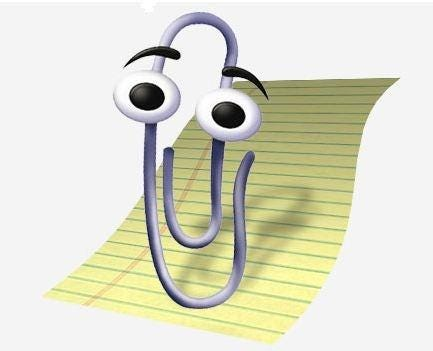
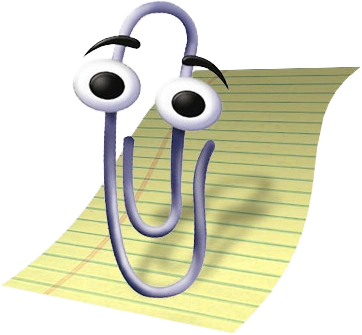
feat: update Clippy and archive theme for dark mode
Replace Clippy PNG, resize, and update archive titlebar color.

Changed region(s): [[0.0, 0.0, 1.0, 1.0]]

diff --git a/app/archive/page.tsx b/app/archive/page.tsx
@@ -282,12 +282,12 @@ function HelperCharacter() {
       </div>
 
       {/* Clippy character */}
-      <div className="w-20 h-20 relative">
+      <div className="w-[88px] h-[88px] relative">
         <Image
           src="/images/clippy.png"
           alt="Clip-E assistant"
-          width={80}
-          height={80}
+          width={96}
+          height={96}
           className="object-contain drop-shadow-lg"
         />
       </div>

diff --git a/app/globals.css b/app/globals.css
@@ -89,8 +89,8 @@ html {
   --archive-border: #404040;
   --archive-text: #1a1a1a;
   --archive-text-muted: #606060;
-  --archive-titlebar: #7a9aba;
-  --archive-highlight: #3a6a9a;
+  --archive-titlebar: #8a8a88;
+  --archive-highlight: #5a5a58;
   --archive-highlight-text: #f0f0f0;
 }
 
